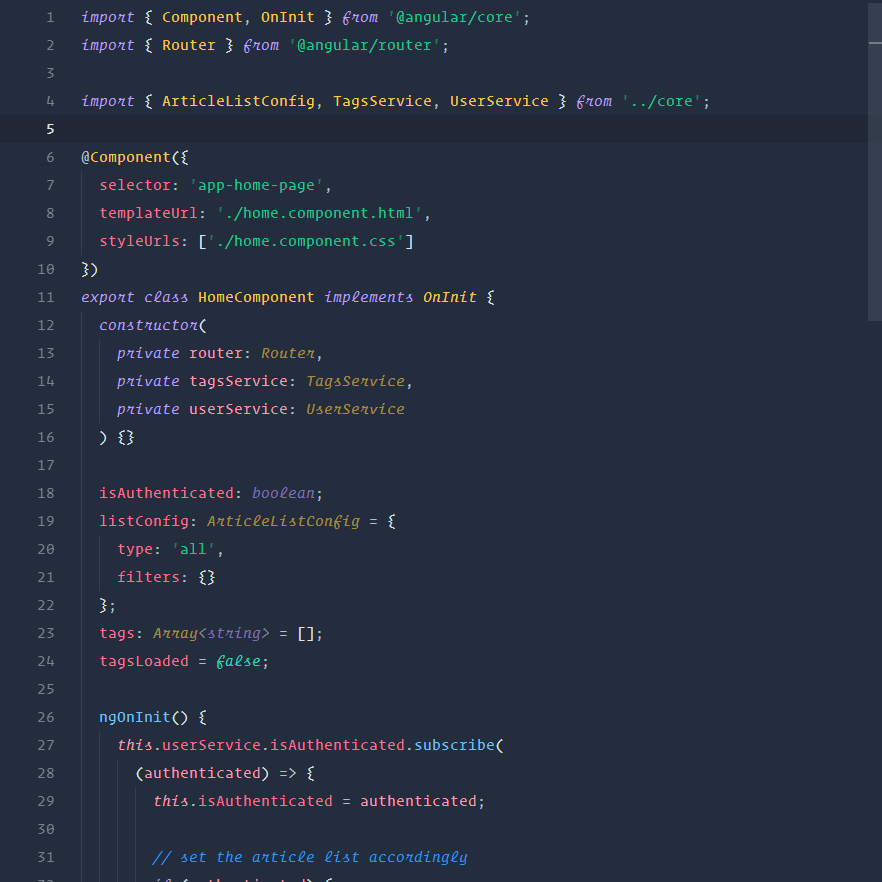
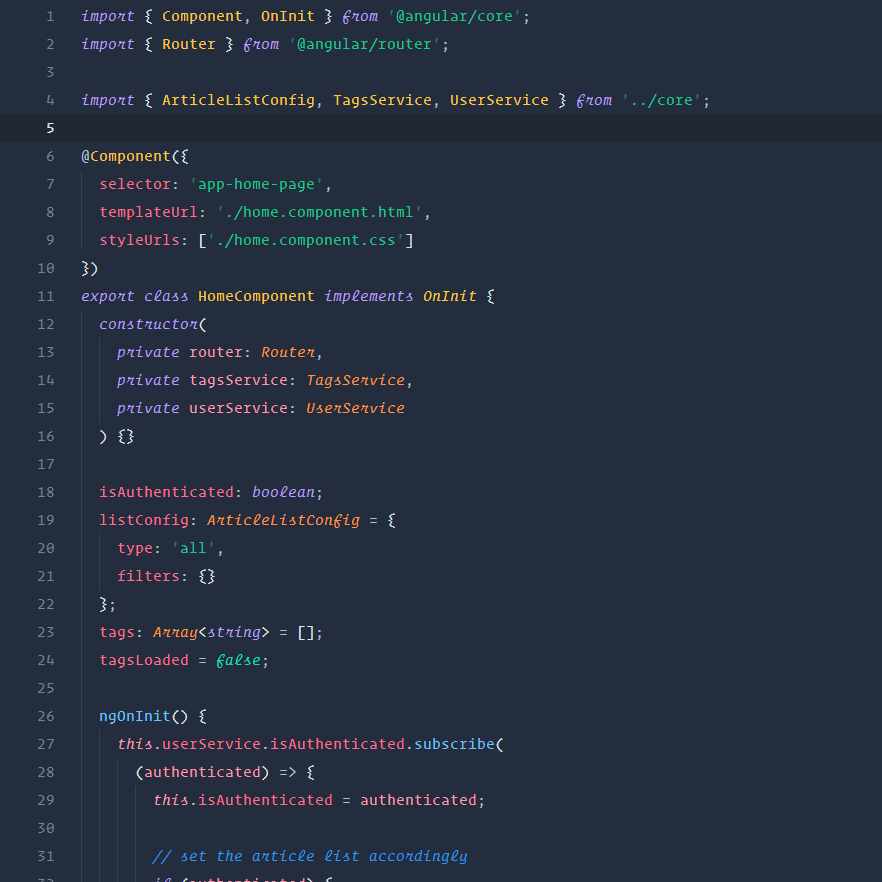
Updated readme and screenshots

diff --git a/README.md b/README.md
@@ -23,7 +23,11 @@ While the theme has been optimized for web development, most of the syntax token
 ![Base Tokens](base-tokens.png)
 
 ## Screenshots
-> **Important Note:** Many of these screenshots make use of custom grammars for syntax highlighting which I hope to release soon. Once they're released, this readme will be updated with the relevant links.
+> **Important Note:** Many of these screenshots make use of custom extended grammars for some syntax highlighting features. These extensions aren't necessary — the theme will work fine without them — but your results may vary a little (or a lot) from the screenshots below unless you install them.
+>
+> * [SCSS Grammar Extended](https://marketplace.visualstudio.com/items?itemName=dannymcgee.scss-grammar-extended)
+> * [TypeScript Grammar Extended](https://marketplace.visualstudio.com/items?itemName=dannymcgee.ts-grammar-extended)
+> * [Angular HTML Syntax](https://marketplace.visualstudio.com/items?itemName=dannymcgee.ng-html)
 
 ### HTML
 ![HTML](examples/img/html.png)
@@ -44,8 +48,10 @@ While the theme has been optimized for web development, most of the syntax token
 ![TypeScript](examples/img/ng-typescript.png)
 
 ### Angular HTML
-[Custom grammar extension](https://marketplace.visualstudio.com/items?itemName=dannymcgee.ng-html)
 ![Angular HTML](examples/img/ng-html.png)
+
+### C#
+![C#](examples/img/csharp.png)
 
 ### UI
 [View full size](examples/img/ui.png)
